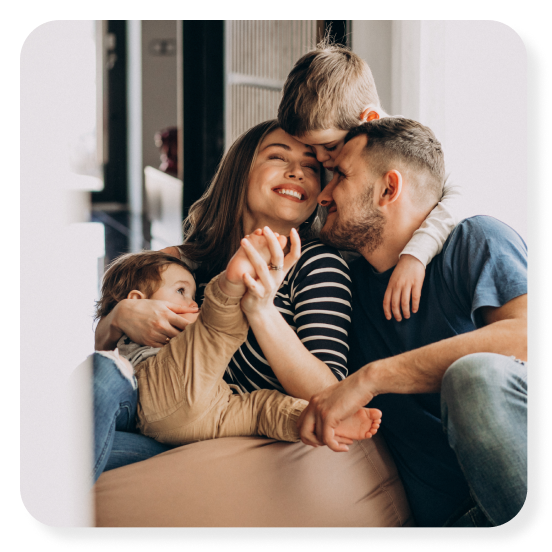
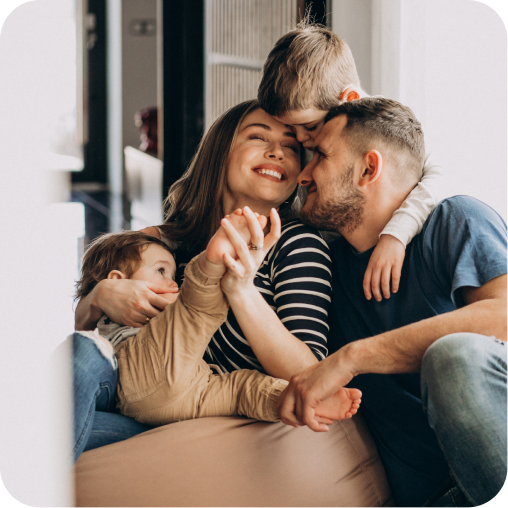
Fix - img_section1 position

diff --git a/index.html b/index.html
@@ -20,7 +20,7 @@
         <a href="#section3"><h1>Motivo</h1></a>
         <a href="#section4"><h1>Funcionalidades</h1></a>
         <a href="#section5"><h1>Soluções</h1></a>
-        <a href="#section6"><h1>Contato</h1></a>  
+        <a href="#section6"><h1 id = "contato_header">Contato</h1></a>  
         </nav>
     </header>
 

diff --git a/assets/css/index.css b/assets/css/index.css
@@ -71,6 +71,9 @@ header{
     text-decoration: none;
     
 }
+#contato_header{
+    margin-right: 1.125rem;
+}
 
 /* ESTILIZAÇÃO DA PRIMEIRA SECTION */
 
@@ -126,8 +129,7 @@ header{
 .imagem_section1 img{
     width: 100%;
     height: 31rem;
-    object-fit: cover;
-    z-index: 999;
+   
     
 }
 
